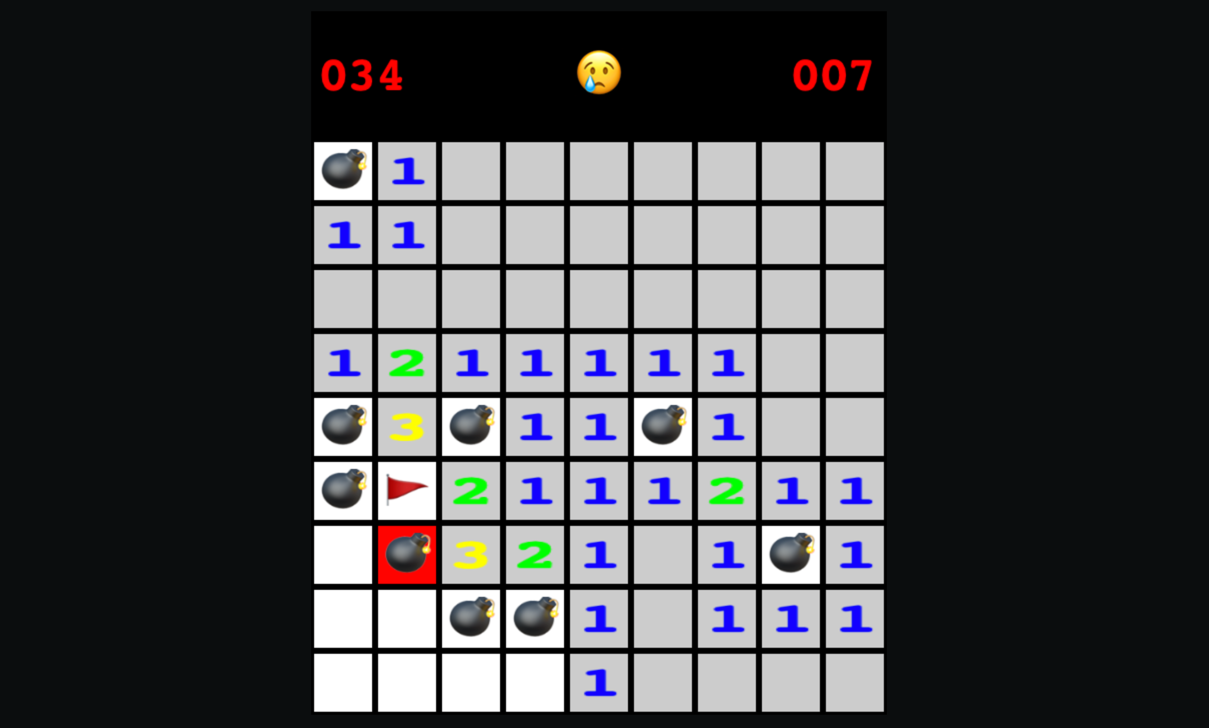
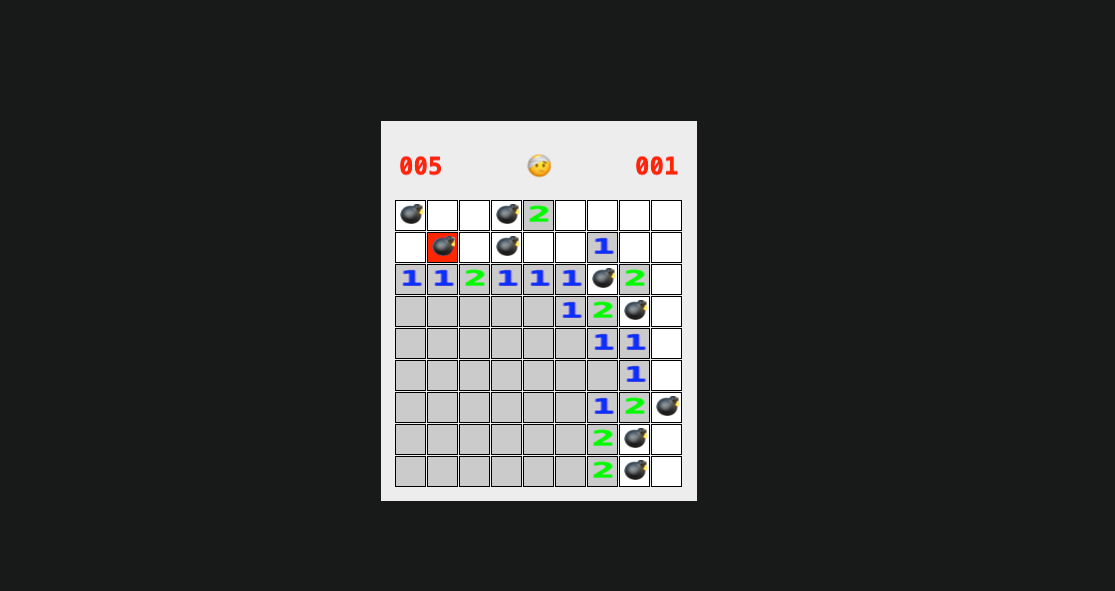
chore: ui fixes

diff --git a/js/Minesweeper.ts b/js/Minesweeper.ts
@@ -49,7 +49,7 @@ export default class Minesweeper {
     this.attachBody();
     this.generateBombs();
     this.generateMap();
-    this.attachEventsToMapCells();
+    this.subscribeEvents();
     this.registerTicker();
     this.render();
   }
@@ -58,7 +58,7 @@ export default class Minesweeper {
     this.app = new PIXI.Application({
       width: APP_WIDTH,
       height: APP_HEIGHT,
-      backgroundColor: 0x000000,
+      backgroundColor: 0xeeeeee,
       resolution: window.devicePixelRatio || 1,
     });
   }
@@ -169,15 +169,15 @@ export default class Minesweeper {
     this.lastActivityAt = Date.now();
     this.revealed.clear();
     this.flagged.clear();
-    this.unsubscribeToMapCells();
+    this.unsubscribeEvents();
     this.generateBombs();
     this.generateMap();
-    this.attachEventsToMapCells();
+    this.subscribeEvents();
     this.header.status.setPlaying();
     this.finished = false;
   }
 
-  private attachEventsToMapCells(): void {
+  private subscribeEvents(): void {
     this.map.forEach((cell) => {
       cell.on("mousedown", ({ target: cell }) => {
         if (this.finished) return;
@@ -206,7 +206,7 @@ export default class Minesweeper {
     this.body.addChild(...this.map.values());
   }
 
-  private unsubscribeToMapCells(): void {
+  private unsubscribeEvents(): void {
     this.map.forEach((cell) => {
       cell.off("mousedown");
       cell.off("mouseup");

diff --git a/js/blocks/Status.block.ts b/js/blocks/Status.block.ts
@@ -1,4 +1,9 @@
-import { APP_WIDTH, GameState, HEADER_HEIGHT } from "../main.constants";
+import {
+  APP_WIDTH,
+  CONTAINER_MARGIN,
+  GameState,
+  HEADER_HEIGHT,
+} from "../main.constants";
 import TextBlock from "./Text.block";
 import Utils from "../Utils";
 
@@ -6,11 +11,12 @@ export default class StatusBlock extends TextBlock {
   public constructor(text = GameState.Playing) {
     super(text);
     this.adjustText();
+    this.buttonMode = true;
   }
 
   public adjustText() {
     this.y = (HEADER_HEIGHT - this.height) / 2;
-    this.x = (APP_WIDTH - this.width) / 2;
+    this.x = (APP_WIDTH - this.width) / 2 - CONTAINER_MARGIN;
 
     return this;
   }

diff --git a/js/blocks/Header.block.ts b/js/blocks/Header.block.ts
@@ -2,7 +2,7 @@ import * as PIXI from "pixi.js";
 import BombBlock from "./Bomb.block";
 import TimerBlock from "./Timer.block";
 import StatusBlock from "./Status.block";
-import { GameState } from "../main.constants";
+import { CONTAINER_MARGIN, GameState, HEADER_HEIGHT } from "../main.constants";
 
 export default class HeaderBlock extends PIXI.Container {
   public constructor(
@@ -11,6 +11,8 @@ export default class HeaderBlock extends PIXI.Container {
     private readonly bombBlock: BombBlock
   ) {
     super();
+    this.x = CONTAINER_MARGIN;
+    this.y = CONTAINER_MARGIN;
     this.appendChildren();
   }
 

diff --git a/js/blocks/Bomb.block.ts b/js/blocks/Bomb.block.ts
@@ -1,4 +1,9 @@
-import { APP_WIDTH, HEADER_HEIGHT, TEXT_PADDING } from "../main.constants";
+import {
+  APP_WIDTH,
+  CONTAINER_MARGIN,
+  HEADER_HEIGHT,
+  TEXT_PADDING,
+} from "../main.constants";
 import TextBlock from "./Text.block";
 
 export default class BombBlock extends TextBlock {
@@ -8,7 +13,7 @@ export default class BombBlock extends TextBlock {
   }
 
   public adjustText() {
-    this.x = APP_WIDTH - this.width - TEXT_PADDING;
+    this.x = APP_WIDTH - this.width - TEXT_PADDING - CONTAINER_MARGIN * 2;
     this.y = (HEADER_HEIGHT - this.height) / 2;
 
     return this;

diff --git a/js/main.constants.ts b/js/main.constants.ts
@@ -2,11 +2,13 @@ export const ROWS = 9;
 export const COLS = 9;
 export const CELL_SIZE = 32;
 export const CELL_PADDING = 1;
+export const CONTAINER_MARGIN = 14;
 export const CELL_BORDER_RADIUS = 0;
 export const HEADER_HEIGHT = CELL_SIZE * 2;
 export const TEXT_PADDING = 4;
-export const APP_WIDTH = CELL_SIZE * COLS;
-export const APP_HEIGHT = ROWS * CELL_SIZE + HEADER_HEIGHT;
+export const APP_WIDTH = CELL_SIZE * COLS + CONTAINER_MARGIN * 2;
+export const APP_HEIGHT =
+  ROWS * CELL_SIZE + HEADER_HEIGHT + CONTAINER_MARGIN * 2;
 
 export enum CellType {
   Bomb = "💣",

diff --git a/js/blocks/Body.block.ts b/js/blocks/Body.block.ts
@@ -1,10 +1,11 @@
 import * as PIXI from "pixi.js";
-import { HEADER_HEIGHT } from "../main.constants";
+import { CONTAINER_MARGIN, HEADER_HEIGHT } from "../main.constants";
 
 export default class BodyBlock extends PIXI.Container {
   public constructor() {
     super();
-    this.x = 0;
-    this.y = HEADER_HEIGHT;
+    this.x = CONTAINER_MARGIN;
+    this.y = HEADER_HEIGHT + CONTAINER_MARGIN;
+    this.interactive = true;
   }
 }

diff --git a/js/blocks/Cell.block.ts b/js/blocks/Cell.block.ts
@@ -15,8 +15,8 @@ export default class Cell extends PIXI.Container {
   public mined = false;
   public opened = false;
   public flagged = false;
-  public value = 0;
   private detonated = false;
+  public value = 0;
 
   constructor(x: number, y: number) {
     super();

diff --git a/js/blocks/Timer.block.ts b/js/blocks/Timer.block.ts
@@ -1,4 +1,8 @@
-import { HEADER_HEIGHT, TEXT_PADDING } from "../main.constants";
+import {
+  CONTAINER_MARGIN,
+  HEADER_HEIGHT,
+  TEXT_PADDING,
+} from "../main.constants";
 import TextBlock from "./Text.block";
 
 export default class TimerBlock extends TextBlock {
